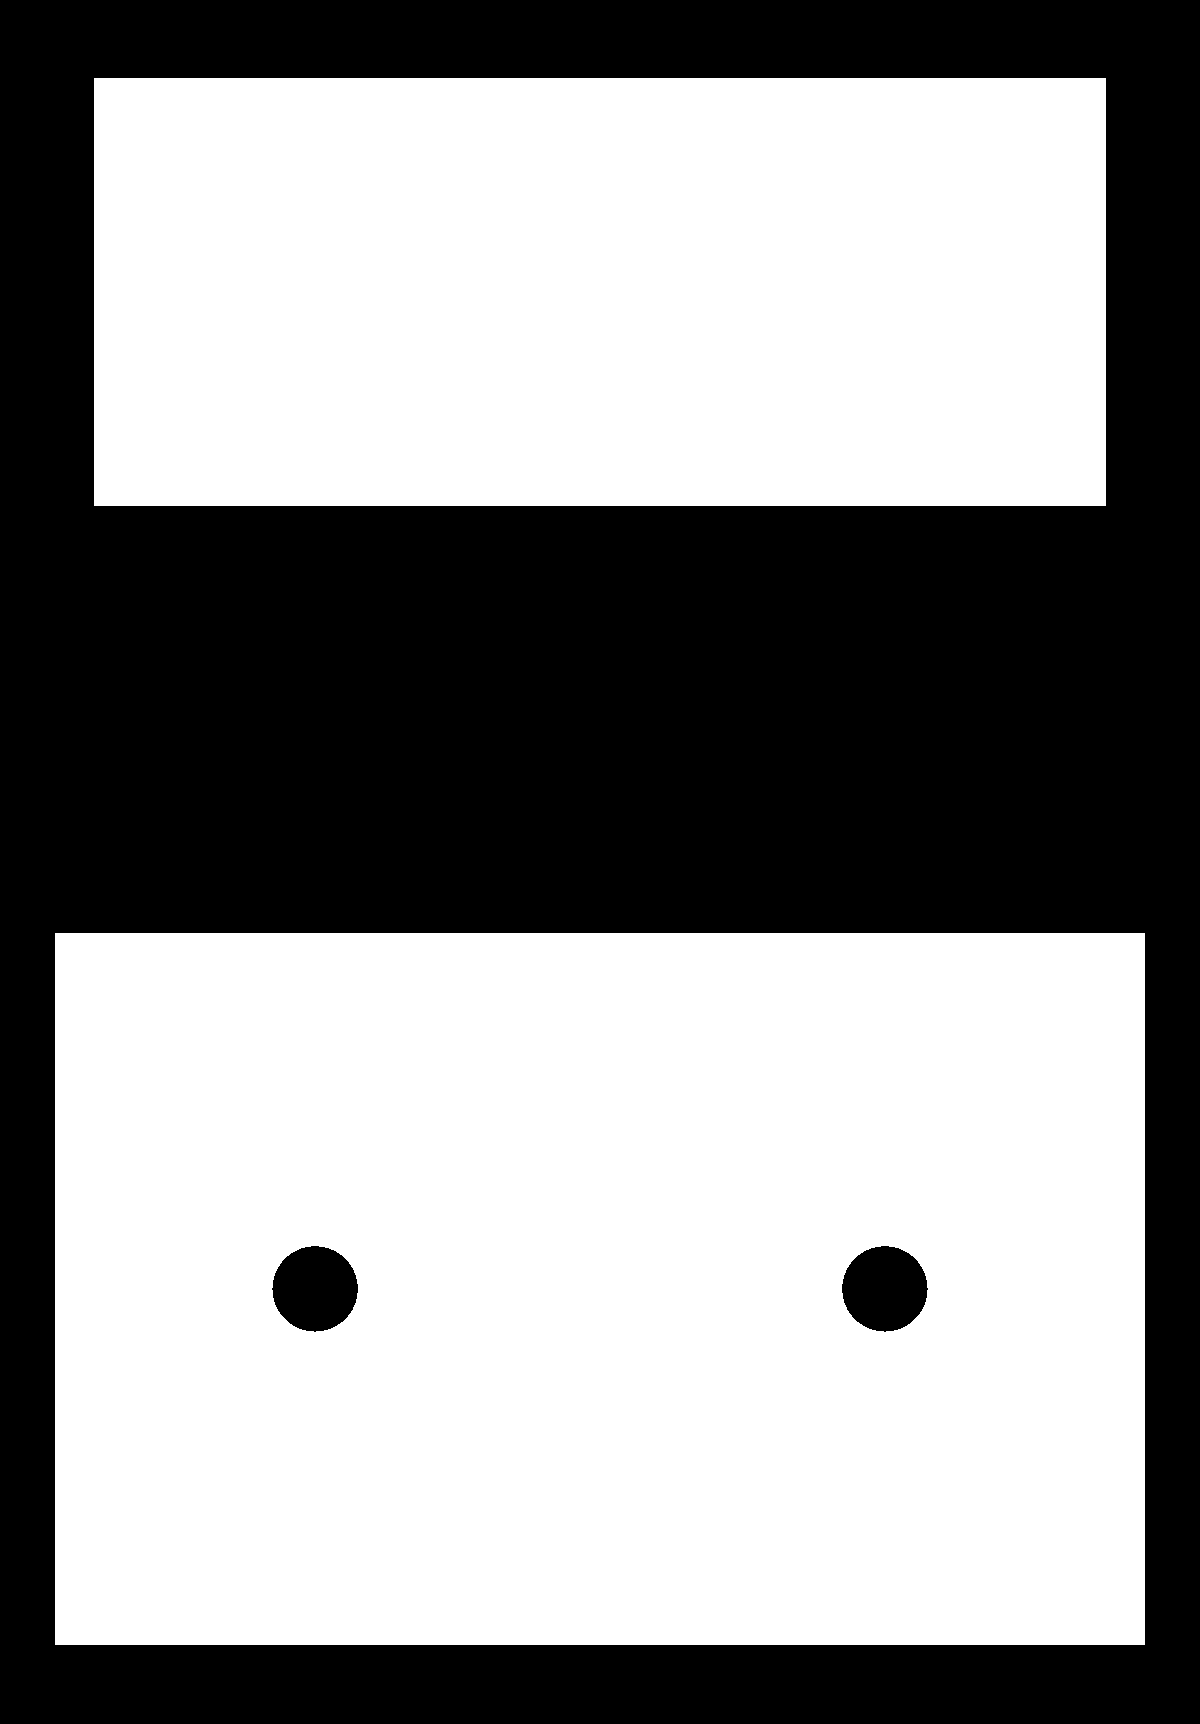
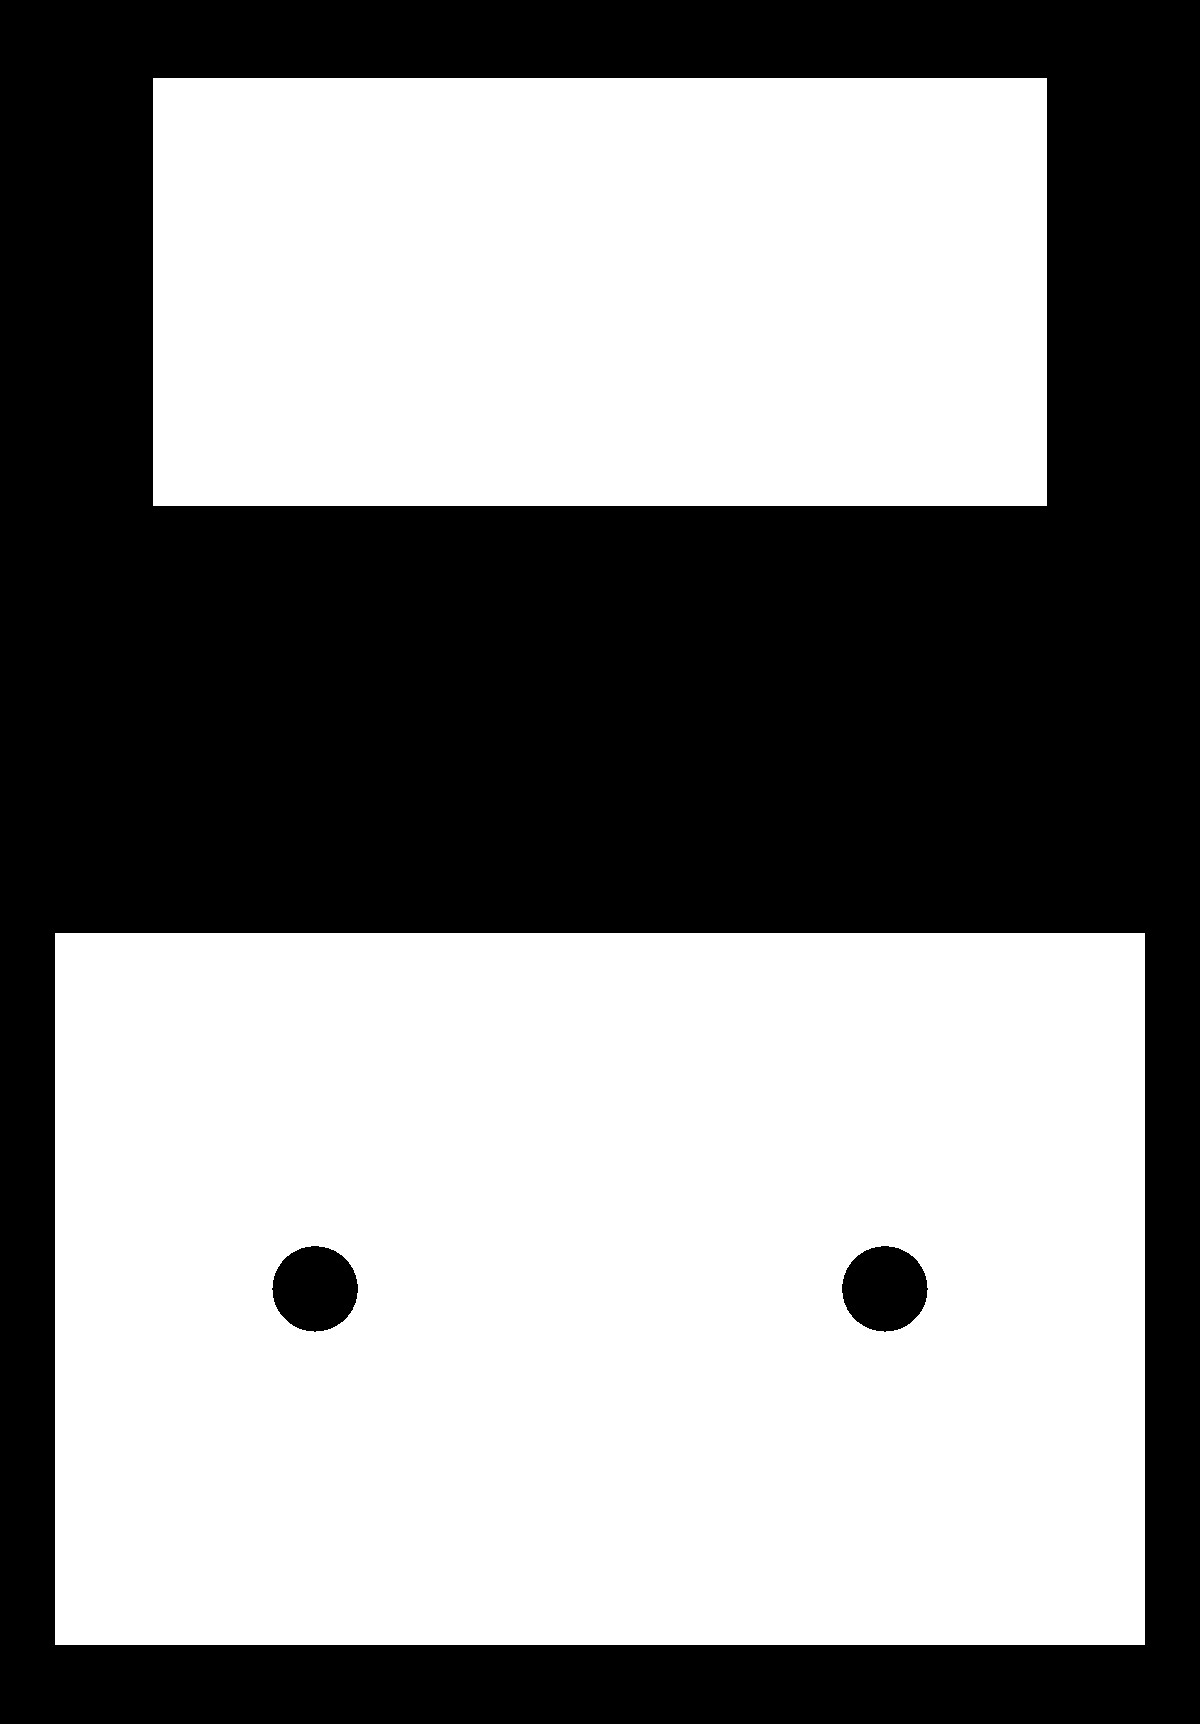
Fixed image sizing issues

Changed region(s): [[0.0617, 0.0307, 0.1542, 0.3074], [0.8633, 0.0307, 0.925, 0.3074]]

diff --git a/STL/STLProcessor.py b/STL/STLProcessor.py
@@ -22,7 +22,7 @@ class STLProcessor:
     def __init__(self):
         self.controller = None
         self.path = None
-        self.sliceDepth = 10
+        self.sliceDepth = 1
         self.filename = ''
         self.imageSlicesLeftRight = []
         self.imageSlicesTopDown = []
@@ -40,10 +40,7 @@ class STLProcessor:
         self.filename = filename
         self._clearFolders()
         self.path = 'STL/output'
-        pxHeight = 1724
-        pxSliceDepth = mm2pixel(self.sliceDepth)
-        sliceNum = math.ceil(pxHeight/pxSliceDepth)
-        self._storeImageSlices(sliceNum)
+        self._storeImageSlices()
         self._clearFaces()
         self.generateDrillCommands()
         self.generateLatheCommands()
@@ -172,6 +169,7 @@ class STLProcessor:
         clearFolder('STL/output/frontback')
         clearFolder('STL/output/leftright')
         clearFolder('STL/output/topdown')
+        clearFolder('STL/dump')
 
     def _clearFaces(self):
         for faceNum in range(2, 6):
@@ -181,29 +179,37 @@ class STLProcessor:
             except:
                 print("Error while deleting file ", filePath)
 
-    def _storeImageSlices(self, sliceNum):
+    def _storeImageSlices(self):
         self._clearFolders()
         self._getRotated()
         # Generate slices for topdown
+        sliceNum = math.ceil(110/self.sliceDepth)
         throughFace = 'topdown'
         generateSlices(self.filename, throughFace, sliceNum)
         facePath = self.path + '/' + throughFace
-        self.imageSlicesTopDown = self._getImageSlices(facePath, 55, 1145, 57, 1196)
-        # Generate slices for left right
-        generateSlices('face3.stl', 'leftright', sliceNum)
-        self.imageSlicesLeftRight = self._getImageSlices('STL/output/leftright', 55, 1145, 78, 1645)
-        # Generate slices for front back
-        generateSlices('face2.stl', 'frontback', sliceNum)
-        self.imageSlicesFrontBack = self._getImageSlices('STL/output/frontback', 55, 1145, 78, 1645)
+        self.imageSlicesTopDown = self._getImageSlices(facePath, 55, 1145, 57, 1196, 76.6, 80)
 
-    def _getImageSlices(self, facePath, x0, x1, y0, y1):
+        # Generate slices for left right
+        sliceNum = math.ceil(int(76.6/self.sliceDepth))
+        generateSlices('face3.stl', 'leftright', sliceNum)
+        self.imageSlicesLeftRight = self._getImageSlices('STL/output/leftright', 55, 1145, 75, 1575, 80, 110)
+
+        # Generate slices for front back
+        sliceNum = math.ceil(80/self.sliceDepth)
+        generateSlices('face2.stl', 'frontback', sliceNum+1)
+        self.imageSlicesFrontBack = self._getImageSlices('STL/output/frontback', 55, 1145, 78, 1645, 76.6, 110)
+
+    def _getImageSlices(self, facePath, x0, x1, y0, y1, width, height):
         imageSlices = []
         for image_path in os.listdir(facePath):
             # create the full input path and read the file
             input_path = os.path.join(facePath, image_path)
             img = cv2.imread(input_path, 0)
+            ratio = configurationMap['other']['mmPerPixelRatio']
             croppedIm = img[y0:y1, x0:x1]
-            imageSlices.append(croppedIm)
+            resizedIm = cv2.resize(croppedIm, (int(width/ratio), int(height/ratio)))
+            imageSlices.append(resizedIm)
+            cv2.imwrite('STL/dump/'+image_path, resizedIm)
         return imageSlices
 
     def _getRotated(self):
@@ -267,7 +273,7 @@ class STLProcessor:
         pxRadius = round(mm2pixel(configurationMap['drill']['diameter']/2))
         tolerance = configurationMap['drill']['detectionTolerance']
 
-        circles = cv2.HoughCircles(img, cv2.HOUGH_GRADIENT, 2.2, 100,
+        circles = cv2.HoughCircles(img, cv2.HOUGH_GRADIENT, 1.2, 100,
                                     param1=100, param2=30, minRadius=pxRadius-tolerance, maxRadius=pxRadius+tolerance)
         drillPoints = []
         if circles is not None:

diff --git a/STL/stl2png.py b/STL/stl2png.py
@@ -66,6 +66,7 @@ def generateSlices(filename, throughFace, sliceNum):
     if options.nslices != 0:
         for i in range(options.nslices):
             z = tzs.zlo + (tzs.zhi - tzs.zlo)*(i + 0.5)/options.nslices
+            print('zloose', z, tzs.zlo, tzs.zhi, i, options.nslices)
             tzs.SliceToPNG(z, pngname(options.outputfile, i, z), throughFace)
 
     i = options.nslices

diff --git a/config.py b/config.py
@@ -83,8 +83,8 @@ configurationMap = {
     }, 'other': {
         'infVal': 9999,
         'homeVal': -10,
-        'mmPerPixelRatio': 80/(1200-55-54), # Using the y direction
-        'mmError': 1.0,
+        'mmPerPixelRatio': 0.1, # Using the y direction
+        'mmError': 2.0,
         'speedMultiplier': 10,
         'numRotationSteps': 200,
     }
